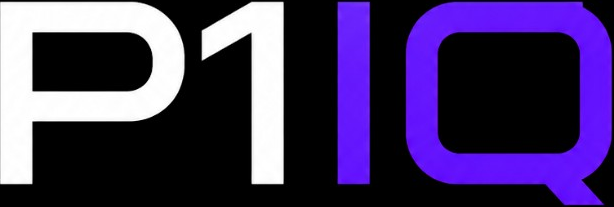
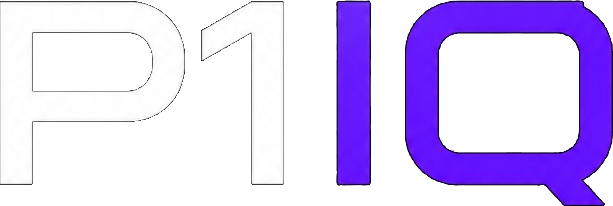
Restore transparent background on brand wordmark.
Rebuild the logo PNG with alpha by stripping the baked-in black background lost when the source was saved as JPEG.

diff --git a/src/lib/branding.ts b/src/lib/branding.ts
@@ -1,9 +1,9 @@
 export const BRAND_NAME = "Player One IQ";
-export const BRAND_LOGO_VERSION = "3";
+export const BRAND_LOGO_VERSION = "4";
 export const BRAND_LOGO_FILE = "/branding/p1iq-wordmark-transparent.png";
 export const BRAND_LOGO_PATH = `${BRAND_LOGO_FILE}?v=${BRAND_LOGO_VERSION}`;
-export const BRAND_LOGO_WIDTH = 614;
-export const BRAND_LOGO_HEIGHT = 207;
+export const BRAND_LOGO_WIDTH = 613;
+export const BRAND_LOGO_HEIGHT = 206;
 export const BRAND_LOGO_ALT = "Player One IQ";
 export const BRAND_FAVICON_VERSION = "10";
 export const BRAND_FAVICON_PATH = `/favicon.ico?v=${BRAND_FAVICON_VERSION}`;
